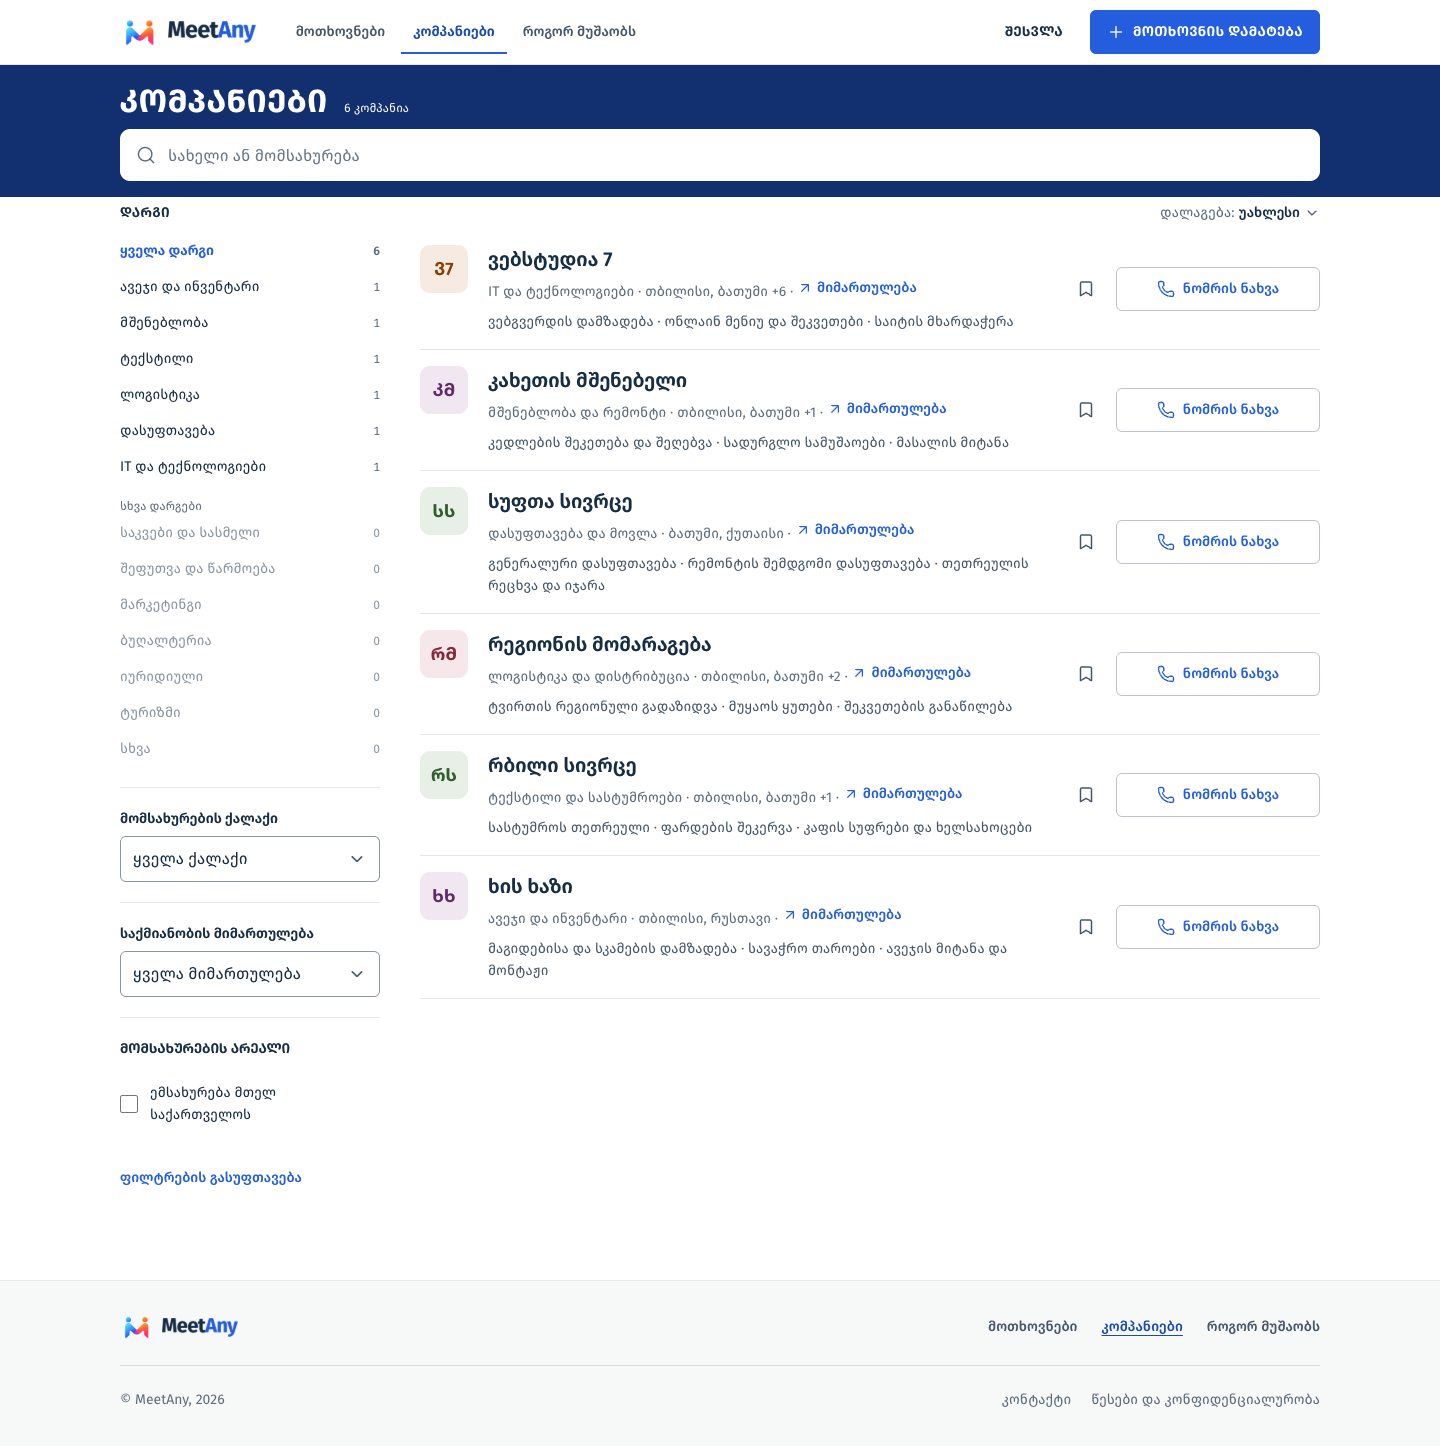
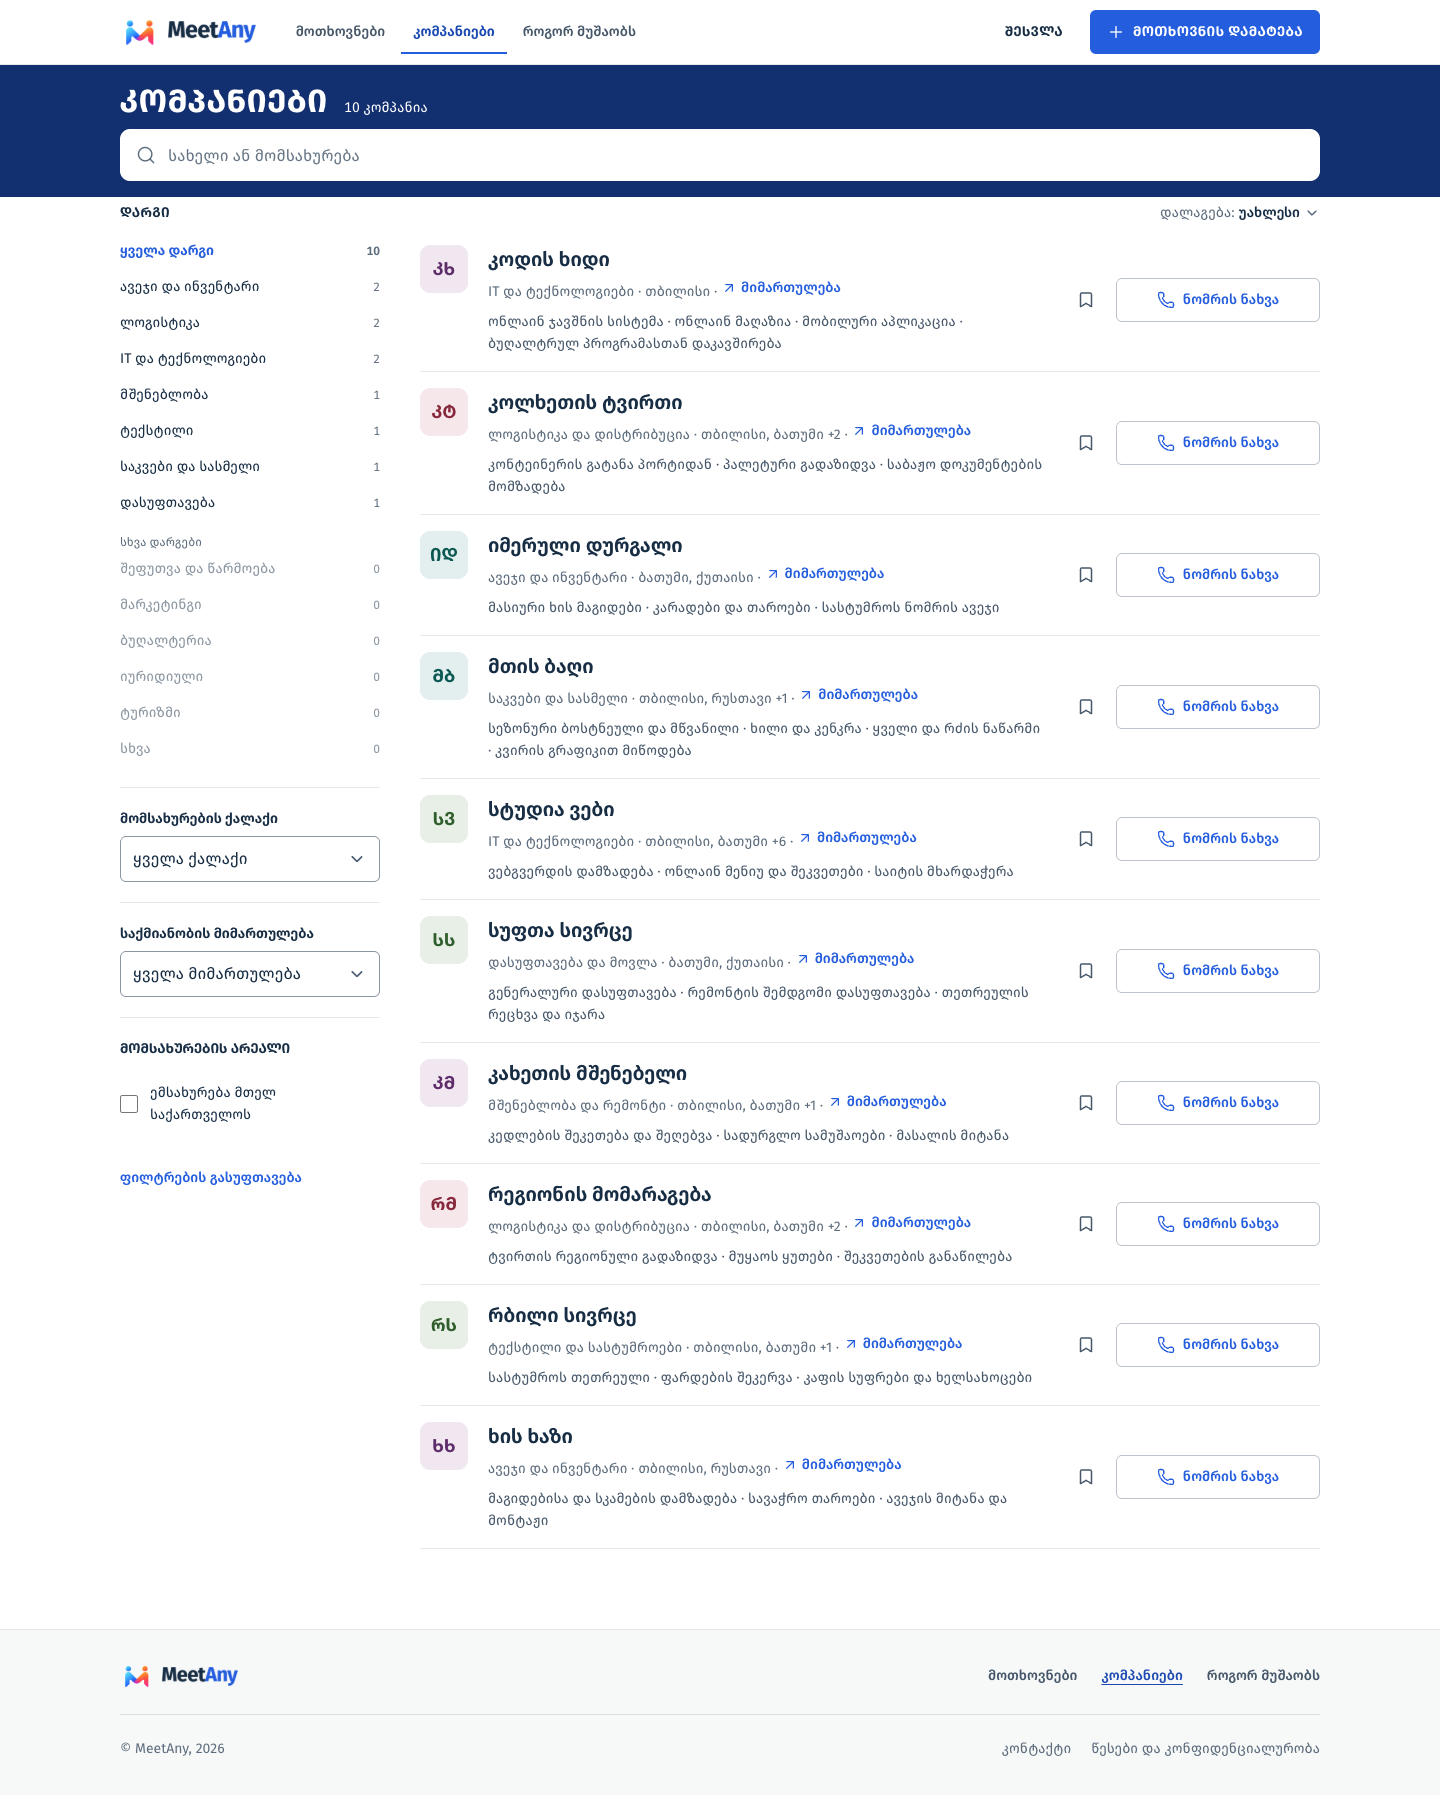
P11 T11.8c: demo content round 3 — ten companies, phones, chat copy
DevApp-Thread: დემო-შინაარსი 3

diff --git a/web/qa/DEMO-CONTENT-GE.md b/web/qa/DEMO-CONTENT-GE.md
@@ -134,3 +134,25 @@
 `tier-demo.ts`: VIP უცვლელი; ტოპ — „მაღაზიის 120 კვ.მ კედლების შეღებვა“, „საჭიროა კლინიკის ვებგვერდი ონლაინ ჩაწერით“, „რულონური ფარდები 12 ფანჯარაზე“. `--verify` დამატებით ამოწმებს: თითო კლიენტს 2–3 მოთხოვნა, „ახალი“ 3–4. კადრები: `qa/shots/ideal-0924/requests-{1440,390}.png` (ძველი → `v4/`), pageerror 0.
 
 **დარჩა UI-ს მხარეს (არ შემიცვლია):** #1 — 0-შეთავაზებიან რიგზე მარჯვნივ „ახალი“ (მაგ. „3 დივანი…“, 20 დღისაა).
+
+## ვ. მესამე რაუნდი (2026-09-24, T11.8c)
+
+მიზანი: `qa/acceptance/companies.md` #5 (6 × „1“ რეილში), #2-ის მონაცემობრივი ნაწილი („ვებსტუდია 7“ → „Ვ7“), #9 (ყველა „წევრია 24 სექტ.“), #1-ის მიზეზი და ჩატის QA ტექსტები. იგივე `seed-demo-v2.cjs`, იგივე გარდები (auth-probe ჰოსტი + localhost :3001), ბექაპი `DEMO-ACCOUNTS-r3.local.bak.md` (gitignored, 0600), ჯერ `--dry-run` (0 მოთხოვნა გადასაქმნელი, QA შეტყობინება 3).
+
+| რა | შედეგი |
+| --- | --- |
+| ახალი კომპანიები | 4: `food` „მთის ბაღი“ (ფერმერთა კოოპერატივი, თბილისი; თბილისი/რუსთავი/გორი), `port` „კოლხეთის ტვირთი“ (ფოთი, 4 ქალაქი), `oak` „იმერული დურგალი“ (ქუთაისი; ქუთაისი/ბათუმი), `code` „კოდის ხიდი“ (IT, თბილისი); სულ 10 კომპანია, 17 ანგარიში |
+| გადარქმევა | „ვებსტუდია 7“ → „სტუდია ვები“ (ინიციალი „ᲡᲕ“); `--verify` ამოწმებს, რომ ინიციალში ციფრი არაა |
+| რეილი | ავეჯი 2, ლოგისტიკა 2, IT 2, მშენებლობა 1, ტექსტილი 1, საკვები 1, დასუფთავება 1 |
+| ტელეფონები | 10/10 კომპანიას საჯარო `phone` (ახალი: 514…, 595…, 574…, 591…); SQL-ით შესაცვლელი 0 იყო (ახლებს `complete_profile`-მა ჩაუწერა) |
+| ვერიფიცირებული | 5/10: wood, linen, web, food, port |
+| `profiles.created_at` | wood 92 დღე, linen 78, supply 64, build 51, cleaning 37, web 23, food 15, oak 9, port 6, code 2; ყოველი კომპანია პირველ შეთავაზებამდე შემოვიდა (assert) |
+| გაგზავნილი შეთავაზება | supply 6, build 5, wood 4, linen 3, cleaning 3, web 1, port 1, code 1, **food 0, oak 0**; +2 შეთავაზება (port → „3 პალეტი კვირაში“, code → კლინიკის ვებგვერდი), სულ 24; მოთხოვნებზე 0×4, 1×3, 2×2, 3×4, 5×1 |
+| ჩატი | 3 შეტყობინება (`body like '%QA 1790%'`) — მოიჭრა მხოლოდ ბოლო „ QA <რიცხვი>“ (`regexp_replace`), სხვა ველი არა; „ტესტ“ — 0 |
+| SQL (ერთი ტრანზაქცია, წინასწარი count-ით) | requests 14, offers 24, phones 0, profiles.created_at 10, messages 3 |
+
+**ფოთი** ქალაქების სიაში არაა (`cities` კოდში/სქემაში): `port`-ის ძირითადი ქალაქი = „მთელი საქართველო“, მისამართი „ფოთი, დავით აღმაშენებლის ქ. 12“; ქალაქის დამატება — კოდის ცვლილებაა, ამ რაუნდში არ შეხებია.
+
+**#1 მიზეზი — UI, არა მონაცემი.** 6-ვე (ახლა 10-ვე) კომპანიას `phone` ჰქონდა; სტუმრისთვის `/api/db/profiles?select=id,phone` → 200. პროფილზე „ნომრის ნახვა“ იხატება მხოლოდ მეორე, ცალკე fetch-ის შემდეგ (`usePublicPhone`, `CompanyProfilePageContent.tsx:37,70`): dev :3001-ზე 0.7/1.5/3 წმ-ზე ღილაკი არაა, 6 წმ-ზე — არის. მიღების სკრიპტი კადრს ~0.7 წმ-ში იღებდა. ღილაკს ადგილი არ აქვს დარეზერვებული (მოგვიანებით ჩნდება „მიწერის“ წინ) — ეს UI-ს საკითხია, არ შემიცვლია.
+
+კადრები: `qa/shots/ideal-0924/companies-{1440,390}.png`, `companies-1440-phone-open.png` (`ideal-shots.mjs companies`), `inbox-1440.png` + `inbox-390-{list,thread}.png`, `inbox-empty-1440.png`, `companies-1440-avatars.png` (`inbox-shots.mjs`, დემო კლიენტი hotel); ძველები → `v5/`. overflow 0, pageerror 0.
